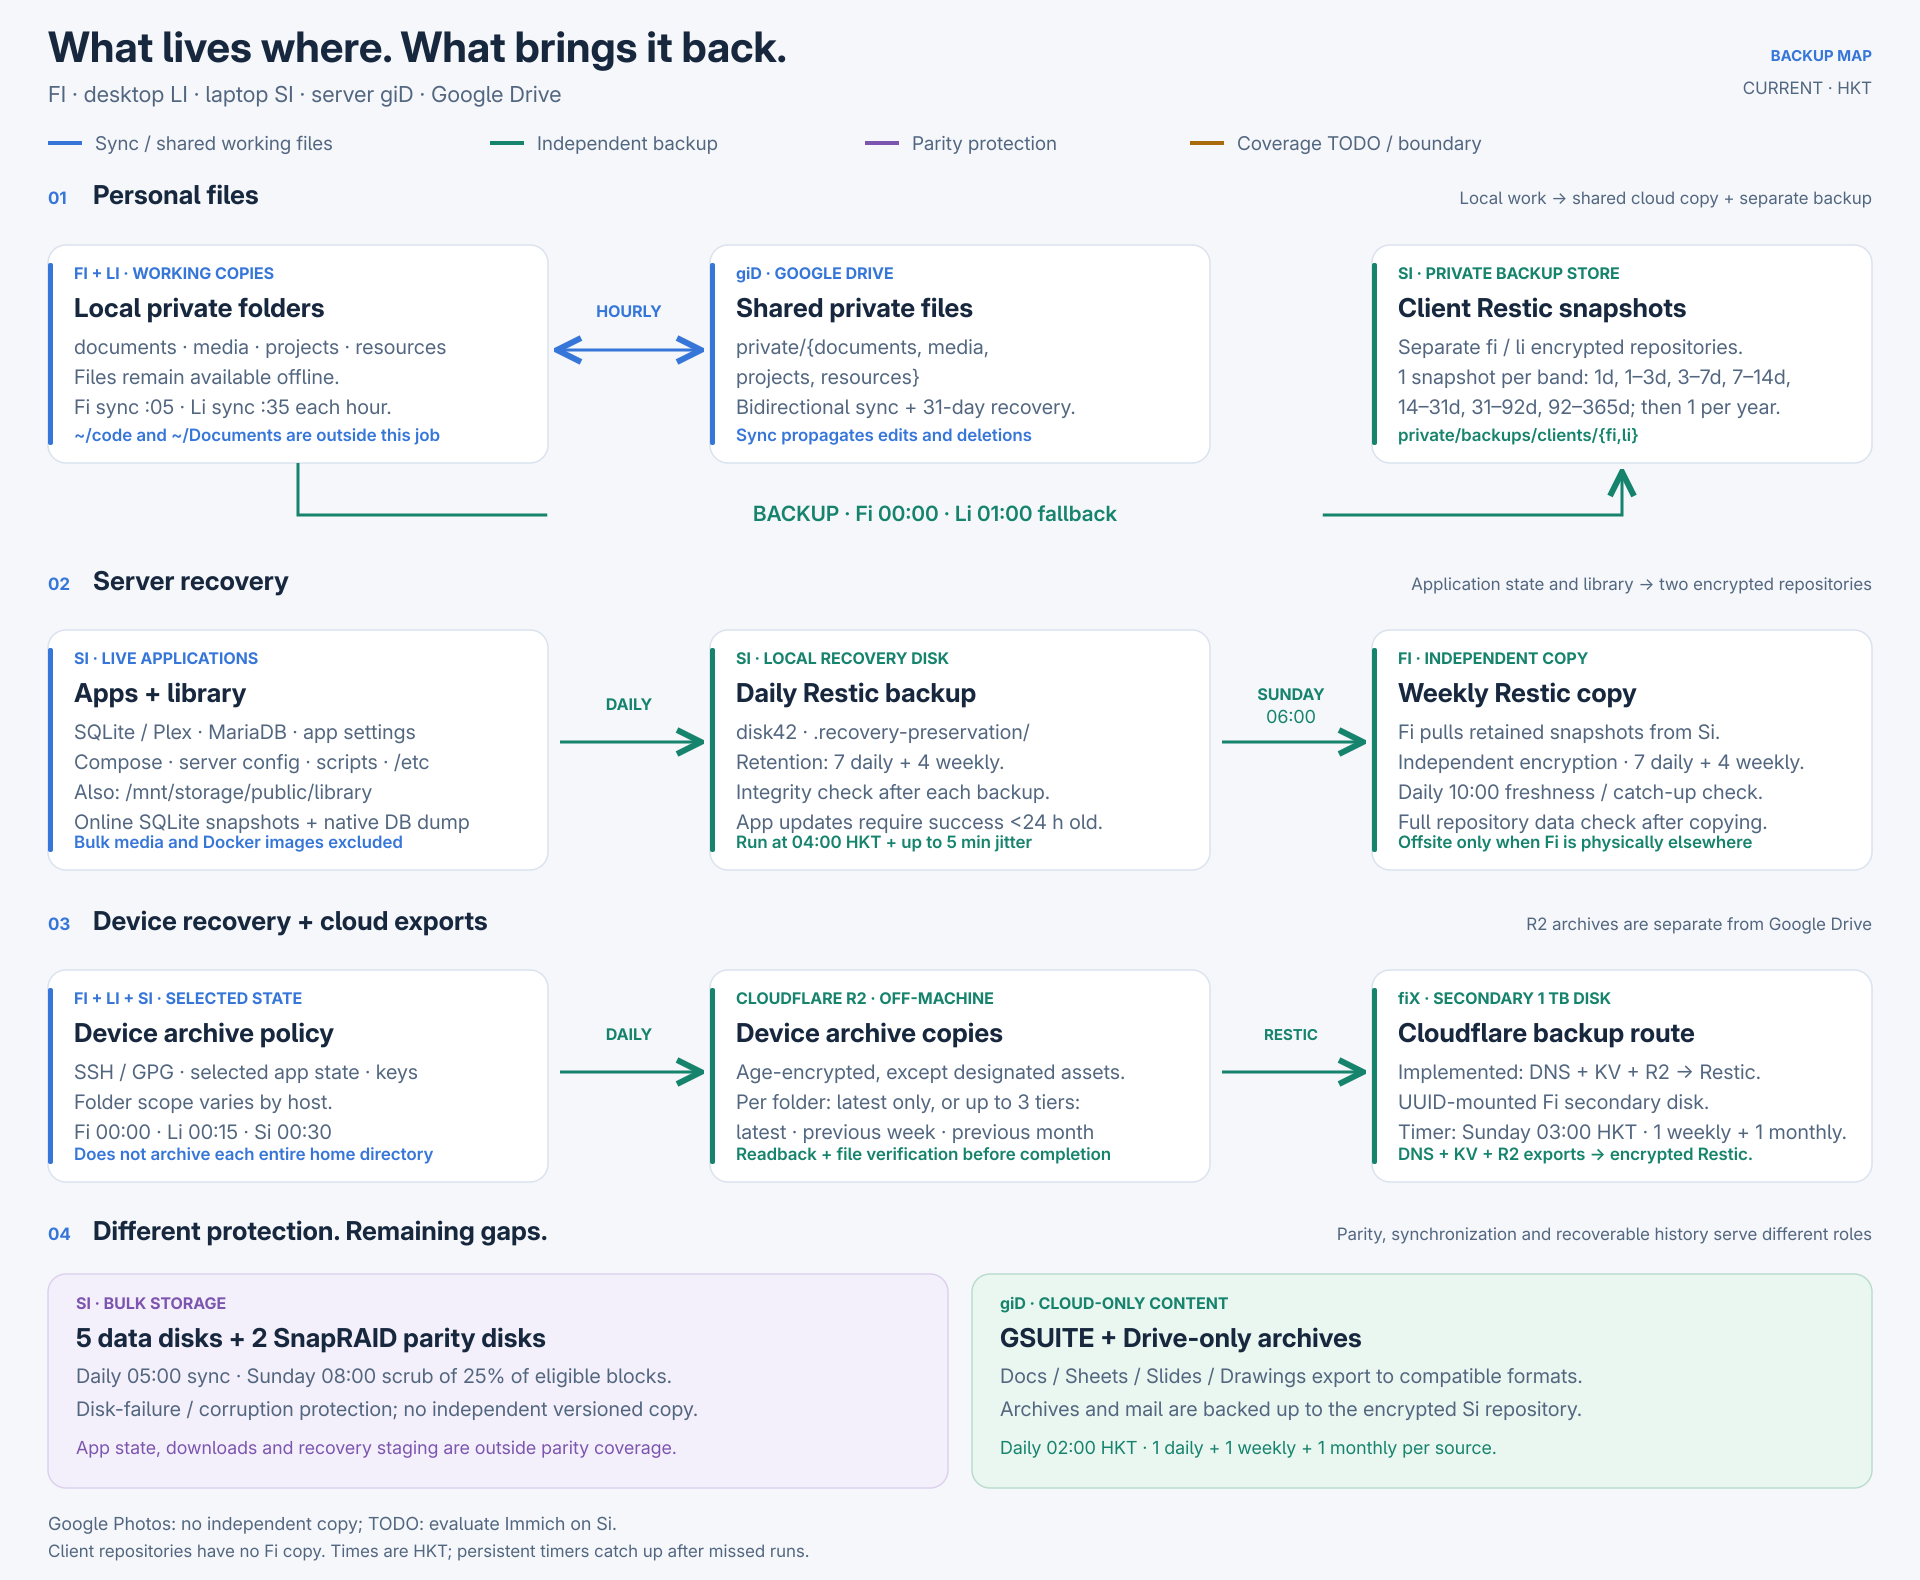
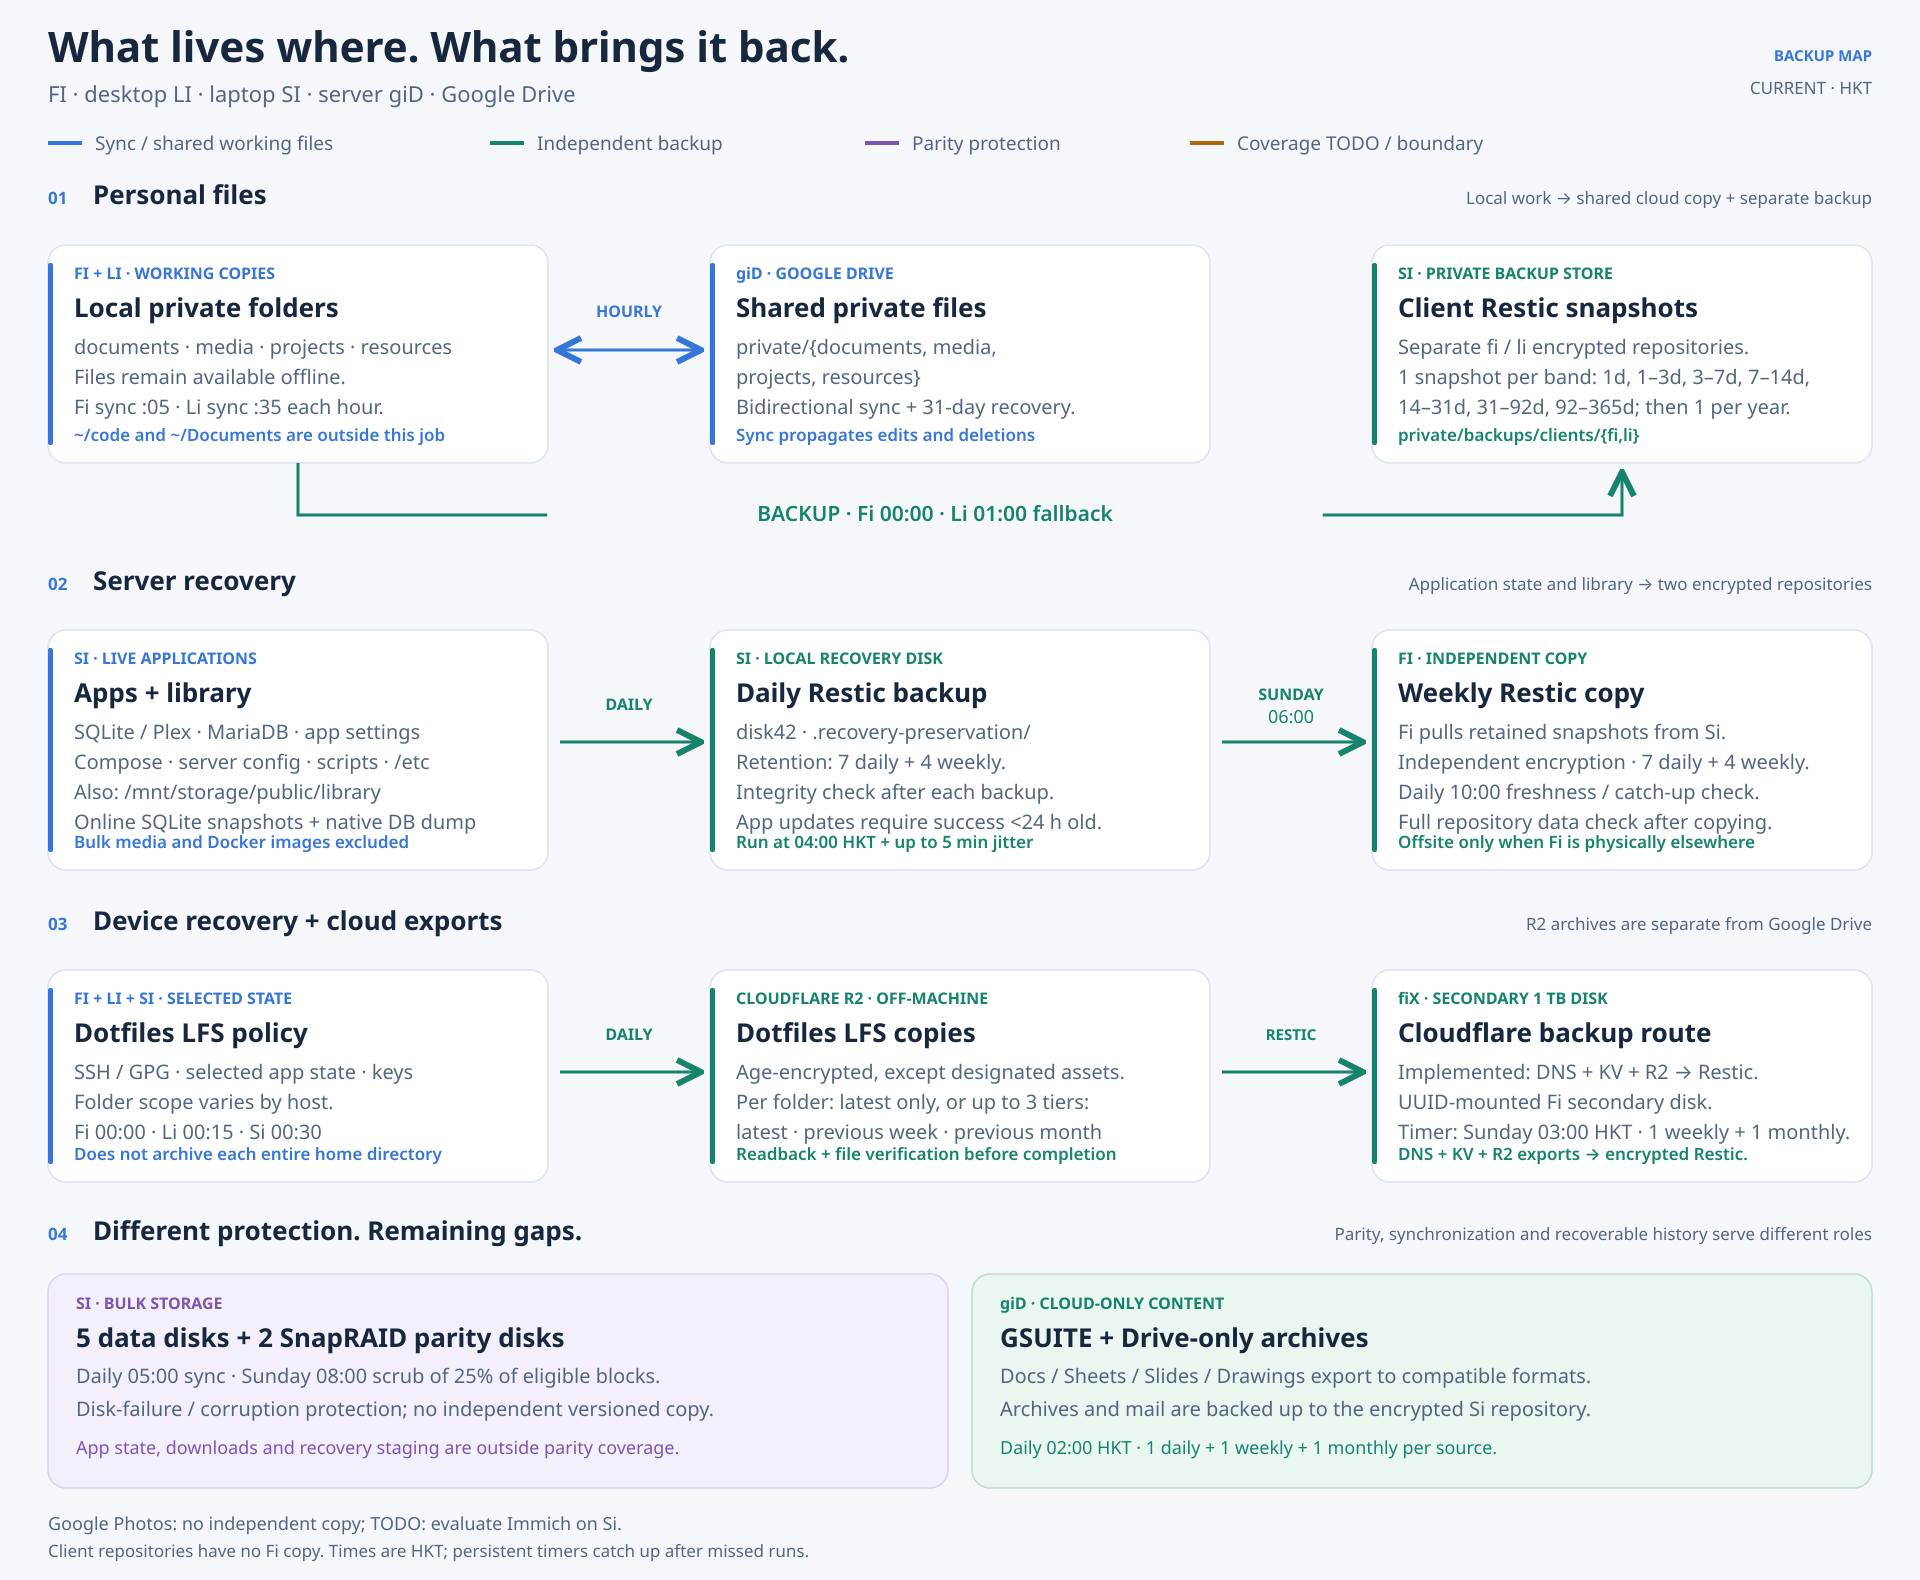
docs(backups): name Dotfiles LFS and clarify coverage gaps

diff --git a/scripts/render_fleet_backup_atlas.py b/scripts/render_fleet_backup_atlas.py
@@ -151,7 +151,7 @@ def render():
     arrow(1025, 1310, 933, "Restic copy")
     node(1330, 908, "desktop", "fi · main disk", "Weekly + daily catch-up", GREEN)
 
-    lane(999, "C", "Device archives + cloud recovery", "Selected config / state / secrets; R2 also holds public assets")
+    lane(999, "C", "Dotfiles LFS + cloud recovery", "Selected config / state / secrets; R2 also holds public assets")
     node(72, 1052, "archive", "fi + li + si", "Selected device folders")
     arrow(353, 613, 1077, "age archive + upload")
     node(637, 1052, "cloud", "cfR2 + DNS / KV", "Daily archives • per-folder retention", TEAL)

diff --git a/docs/fleet-backup-atlas.md b/docs/fleet-backup-atlas.md
@@ -24,7 +24,7 @@ Schedules use HKT. Timer jobs run under each host's user systemd manager.
 | `gi` | Google | Parent provider grouping, not shorthand for a second machine or Drive |
 | `giD` | Google Drive | `type-drive:`; synchronized private files, cloud-only archives and Google-native documents |
 | `giP` | Google Photos | Provider-hosted personal photos; TODO: evaluate Immich on Si as a backup destination |
-| `cf` / `cfR2` | Cloudflare / R2 | DNS/KV exports and object storage, including device archives and public assets |
+| `cf` / `cfR2` | Cloudflare / R2 | DNS/KV exports and object storage, including Dotfiles LFS and public assets |
 | `git` | Git remotes | Committed code and configuration history |
 | `bw` | Bitwarden | Hosted vault and selected Secrets Manager provisioning; independently recoverable vault access is required |
 
@@ -52,7 +52,7 @@ a recurring job or a successful restore.
 | Photos | Personal images in local folders and/or Google Photos | Local images inherit their folder's protection; Google Photos has no configured independent copy. TODO: evaluate Immich on Si |
 | Assets | Public image and dataset releases, including R2 objects | Cloudflare R2 is included in the Fi Restic backup scope |
 | Configs | Git-managed dotfiles, scripts, templates, Compose and system configuration | Git history + Tjikup/Tjikup deployment; selected live state also in device/app backups |
-| Secrets | Keys, credentials, encryption/recovery material | Bitwarden provisioning and selected age-encrypted device archives; never committed to Git |
+| Secrets | Keys, credentials, encryption/recovery material | Bitwarden provisioning and selected age-encrypted Dotfiles LFS backups; never committed to Git |
 | **Mail** | Messages, attachments, indexes and reader exports | Encrypted structured archives under `giD:private/archives/mail/structured/`; included in the Si Drive backup |
 | **App state / databases** | Mutable application data, SQLite/Plex, MariaDB | Application-consistent exports → Si Restic → independently encrypted Fi repository |
 | **Recovery software** | Ephemera 2.0.0 final Docker image | Verified permanent export in `giD:private/backups/software/ephemera/v2.0.0-37d95e68394b/`; superseded Si tar removed. [Recovery instructions](si-application-backups.md#ephemera-final-image) |
@@ -68,10 +68,12 @@ All times HKT; persistent timers may catch up and some runs include jitter.
   can remain unprotected when its fallback skips. The repositories are
   `/mnt/storage/private/backups/clients/fi` and
   `/mnt/storage/private/backups/clients/li` on Si. The Si-to-Fi app
-  repository is separate from these client repositories.
+  repository is separate from these client repositories and does not include
+  them. No independent replica of their snapshot history is configured outside
+  Si; Drive synchronization is not a replica of that history.
 - **Server apps:** Si 04:00, 7 daily / 4 weekly. Fi Restic copy Sunday 06:00,
   daily 10:00 freshness/catch-up. Fi is geographically offsite only when elsewhere.
-- **Device archives:** Fi 00:00, Li 00:15, Si 00:30. Selected per-host folders;
+- **Dotfiles LFS:** Fi 00:00, Li 00:15, Si 00:30. Selected per-host folders;
   latest only, or latest + previous week + previous month according to policy.
 - **Google Drive archives and native documents:** Si daily backup at 02:00;
   1 daily / 1 weekly / 1 monthly snapshot per source.
@@ -84,7 +86,7 @@ All times HKT; persistent timers may catch up and some runs include jitter.
 
 - [Backup map](fleet-backup-map.md)
 - [Private storage](private-storage.md)
-- [Device archive policy](device-archives.md)
+- [Dotfiles LFS policy](device-archives.md)
 - [Si app recovery](si-application-backups.md)
 - [SnapRAID maintenance](si-snapraid-maintenance.md)
 - [Cloudflare backups](cloudflare-backups.md)

diff --git a/README.md b/README.md
@@ -78,13 +78,16 @@ backup locations, schedules, and retention.
   locations, content types, sync, snapshots, archives, parity and configuration.
 - **[Backup map](docs/fleet-backup-map.md)** — current scopes, schedules,
   retention and coverage boundaries.
-- [Device archives and cross-device restore](docs/device-archives.md) ·
+- [Dotfiles LFS and cross-device restore](docs/device-archives.md) ·
   [Private-file sync and backups](docs/private-storage.md) ·
   [Server application backups](docs/si-application-backups.md) ·
   [Cloudflare backups](docs/cloudflare-backups.md)
 
 The diagrams describe configured backup routes and schedules. The linked setup
 guides describe their scope and recovery procedures.
+
+- **TODO — Google Photos backup:** configure an independent backup and verify
+  restoration; evaluate Immich on Si as a destination. No backup is configured yet.
 
 ### Server media
 

diff --git a/docs/device-archives.md b/docs/device-archives.md
@@ -1,4 +1,4 @@
-# Device archives and synchronization
+# Dotfiles LFS and synchronization
 
 The archival engine now lives in tjikOS at `apps/synctjik` (Rust). `synctjik` is
 the public command; `device-archives` and `dotjik-externals-backup` are compatibility
@@ -7,7 +7,7 @@ engine. Existing v2 snapshots and `~/.local/state/device-archives` remain compat
 New machines enroll collections with `synctjik enroll`, restore with `synctjik setup`,
 and enable backups with `synctjik schedule` only after `synctjik ready` succeeds.
 
-The retained `native/home/files/.local/lib/device_archives` Python sources are migration
+The retained Python sources under `tests/oracles/device_archives` are migration
 comparison fixtures. They are not installed by the native file manifest.
 
 

diff --git a/docs/fleet-backup-map.md b/docs/fleet-backup-map.md
@@ -30,7 +30,7 @@ has no independent copy; evaluating Immich on Si is a TODO.
 ## Source references
 
 - [Private storage](private-storage.md) and the managed `private-storage` tool.
-- [Device archives](device-archives.md) and `native/home/files/.config/archive-policy.json`.
+- [Dotfiles LFS](device-archives.md) and `native/home/files/.config/archive-policy.json`.
   The JSON policy is authoritative for current per-folder assignments.
 - [Si application backups](si-application-backups.md) and the server backup script.
 - [SnapRAID maintenance](si-snapraid-maintenance.md).

diff --git a/docs/config-restoration-plan.md b/docs/config-restoration-plan.md
@@ -100,7 +100,7 @@ project verifies enter/leave behavior and explicit `uv sync` after rendering.
 
 ### 2. Zen — no further integration
 
-Use Zen's own sync, as requested. Remove `.zen` from the scheduled device archive
+Use Zen's own sync, as requested. Remove `.zen` from the scheduled Dotfiles LFS backup
 policy without deleting existing snapshots. No workspace-format investigation,
 additional allowlist entries or Zen restore implementation is planned. This
 choice does not assert that Zen sync covers every local customization.

diff --git a/docs/codex-lb-desktop-master.md b/docs/codex-lb-desktop-master.md
@@ -18,7 +18,7 @@ The existing laptop database and key are preserved. An account marked
 <http://localhost:2455/dashboard>. Authenticate independently on each machine;
 do not copy the desktop database or refresh tokens to bootstrap the laptop.
 Sharing a refresh token between running instances can cause refresh conflicts.
-Device archive synchronization does not distribute Codex LB accounts.
+Dotfiles LFS synchronization does not distribute Codex LB accounts.
 
 ## Verification
 

diff --git a/docs/device-archives-content-audit.md b/docs/device-archives-content-audit.md
@@ -1,4 +1,4 @@
-# Device archive content audit — 2026-10-25
+# Dotfiles LFS content audit — 2026-10-25
 
 This records the read-only audit baseline of the active policy and selected
 files on Fi. The user subsequently authorized the cache exclusions, compact
